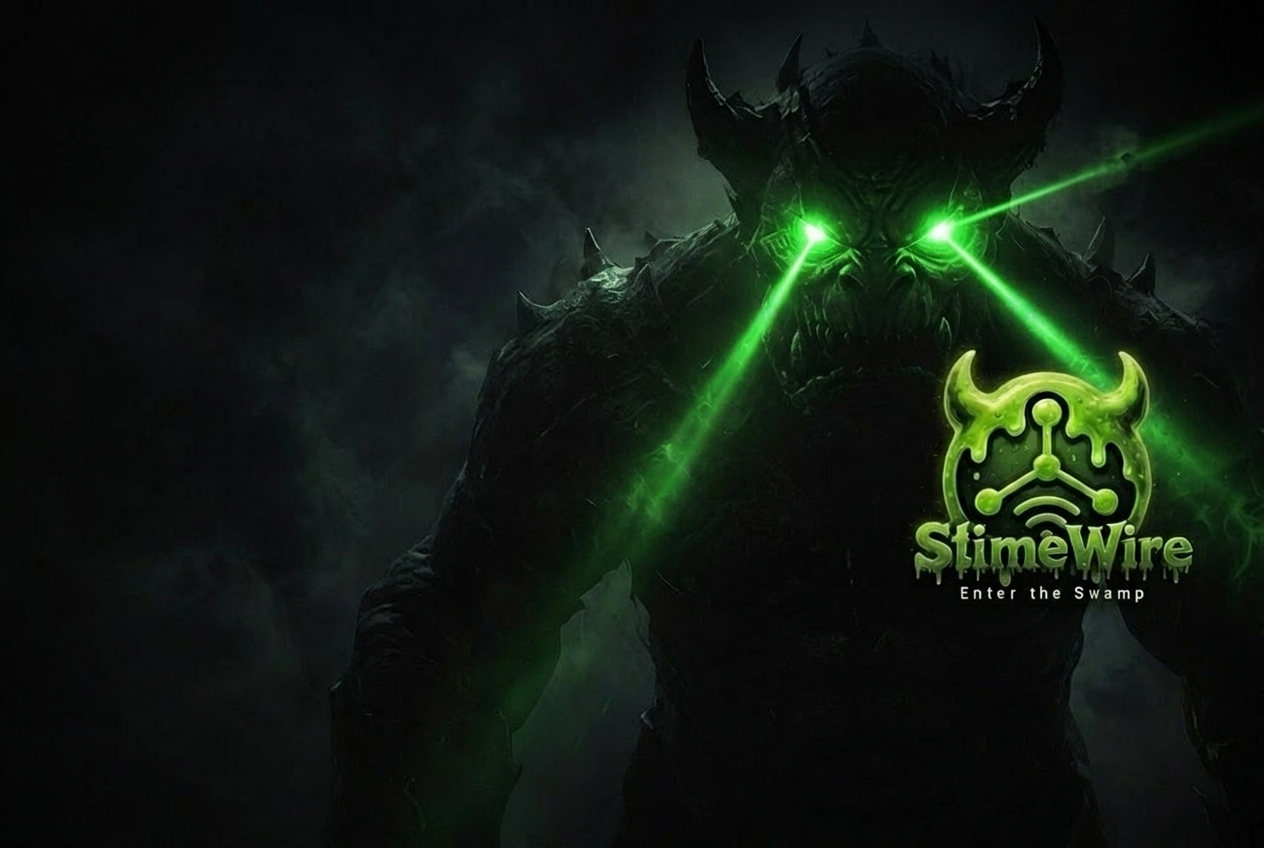
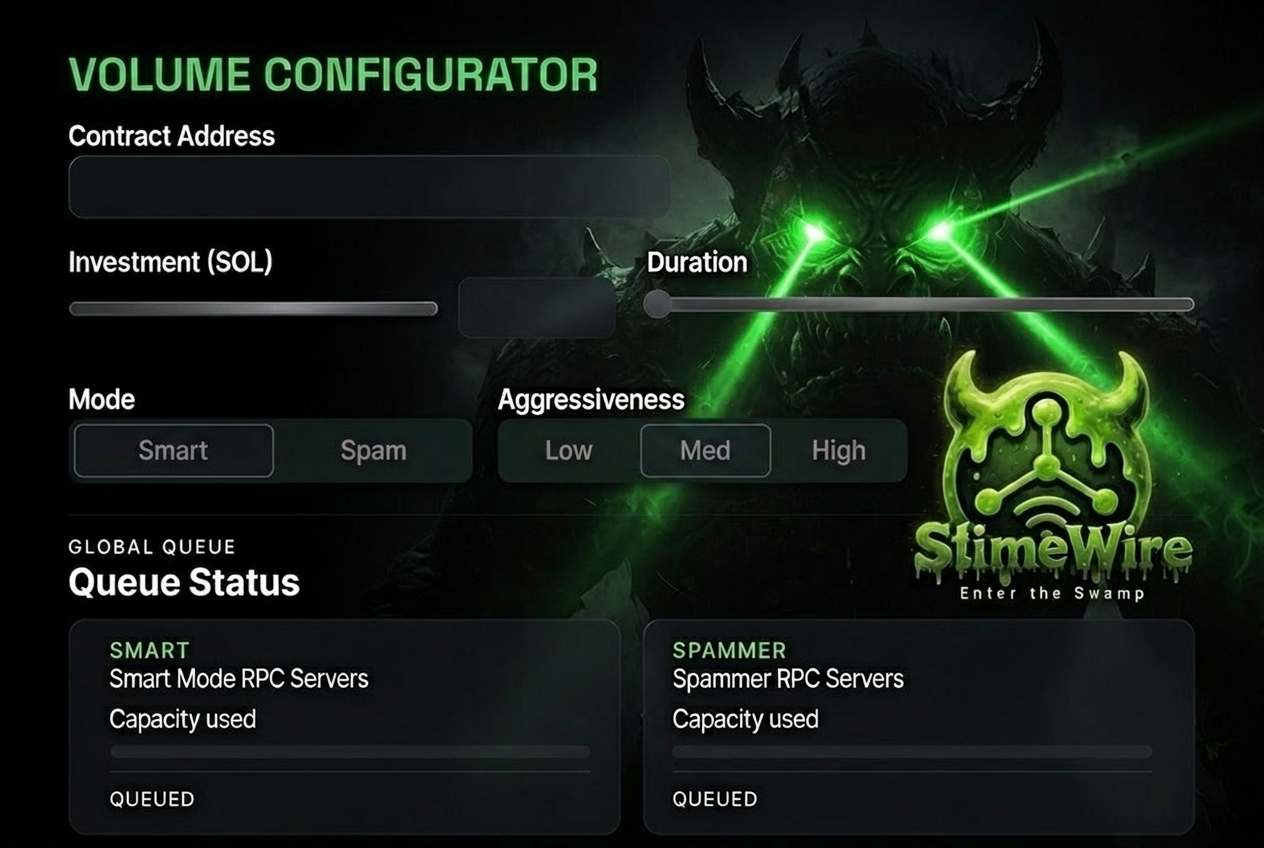
@ Volume: image-skin panel - real controls dropped into the template slots
Generate a full-layout empty Volume template (configurator design + demon,
empty slots) and rebuild the panel as a positioned image-skin: CA, investment
+ duration sliders, and Mode/Aggressiveness segments sit IN the drawn slots
(opaque segments cover the drawn pills; live active state). Stage bottom fades
the drawn queue cards; the real Start/queue/list render below in .ovs-below.
Reuses every existing data-* control so function is preserved.

@

diff --git a/web/public/slimewire-final-overrides.css b/web/public/slimewire-final-overrides.css
@@ -19654,6 +19654,97 @@ html body main.shell[data-app] .ogre-swap-advanced .quick-grid button.primary {
 }
 /* === END OGRESWAP_20260609_V2 ======================================== */
 
+/* === VOLUME_SKIN_20260609_V1 (positioned image-skin) ==================
+   volume-template.png IS the panel face; real controls sit in the drawn
+   slots. Stage is cropped to the config rows (top) so the drawn queue cards
+   aren't shown; the real Start/queue/list live in .ovs-below. */
+html body main.shell[data-app] .slime-configurator.ovs-skin {
+  position: relative;
+  overflow: visible;
+  border: 0 !important;
+  background: #050805 !important;
+  padding: 0 !important;
+}
+html body main.shell[data-app] .ovs-stage {
+  position: relative;
+  width: 100%;
+  max-width: 900px;
+  margin: 0 auto;
+  aspect-ratio: 1264 / 848;
+  container-type: inline-size;
+  background: #050805 url("/assets/slimewire/tool-bg/volume-template.png") center / 100% 100% no-repeat;
+  border-radius: 10px;
+  overflow: hidden;
+}
+html body main.shell[data-app] .ovs-ca {
+  position: absolute; left: 2.5%; top: 13.5%; width: 55%; height: 8%;
+  background: transparent !important; border: 0 !important; outline: none !important; box-shadow: none !important;
+  color: #eafff0 !important; font-size: clamp(11px, 2.4cqw, 16px) !important; font-weight: 600 !important;
+  padding: 0 1.5% !important; box-sizing: border-box;
+}
+html body main.shell[data-app] .ovs-invest {
+  position: absolute; left: 2.5%; top: 28%; width: 29%; height: 8%;
+  display: flex; align-items: center; gap: 6px;
+}
+html body main.shell[data-app] .ovs-duration {
+  position: absolute; left: 33%; top: 28%; width: 25%; height: 8%;
+  display: flex; align-items: center; gap: 6px;
+}
+html body main.shell[data-app] .ovs-invest input[type="range"],
+html body main.shell[data-app] .ovs-duration input[type="range"] { flex: 1 1 auto; min-width: 0; margin: 0 !important; }
+html body main.shell[data-app] .ovs-invest-num {
+  width: 30%; background: transparent !important; border: 0 !important; outline: none !important;
+  color: #c7f7a4 !important; font-weight: 800 !important; font-size: clamp(11px, 2.4cqw, 16px) !important; text-align: center;
+}
+html body main.shell[data-app] .ovs-dur-label {
+  color: #c7f7a4 !important; font-weight: 700; font-size: clamp(9px, 2cqw, 12px); white-space: nowrap;
+}
+html body main.shell[data-app] .ovs-stage input[type="range"] {
+  -webkit-appearance: none; appearance: none; height: 6px;
+  background: rgba(120, 230, 120, 0.25) !important; border-radius: 999px; outline: none; cursor: pointer; padding: 0 !important;
+}
+html body main.shell[data-app] .ovs-stage input[type="range"]::-webkit-slider-thumb {
+  -webkit-appearance: none; width: 16px; height: 16px; border-radius: 50%;
+  background: #8bff5a; box-shadow: 0 0 10px rgba(120, 255, 60, 0.7); cursor: pointer;
+}
+html body main.shell[data-app] .ovs-stage input[type="range"]::-moz-range-thumb {
+  width: 16px; height: 16px; border: 0; border-radius: 50%; background: #8bff5a; box-shadow: 0 0 10px rgba(120, 255, 60, 0.7);
+}
+html body main.shell[data-app] .ovs-mode { position: absolute; left: 2.5%; top: 46.5%; width: 30%; height: 9.5%; }
+html body main.shell[data-app] .ovs-aggr { position: absolute; left: 32.5%; top: 46.5%; width: 27.5%; height: 9.5%; }
+/* Fade the bottom (the drawn Queue Status cards) into the panel - the real,
+   live queue + list render in .ovs-below right under the stage. */
+html body main.shell[data-app] .ovs-stage::after {
+  content: "";
+  position: absolute;
+  left: 0; right: 0; bottom: 0;
+  height: 40%;
+  background: linear-gradient(180deg, rgba(5, 8, 5, 0) 0%, rgba(5, 8, 5, 0.86) 62%, #050805 100%);
+  pointer-events: none;
+}
+html body main.shell[data-app] .ovs-stage .vbot-segment {
+  display: flex !important; gap: 2px; width: 100%; height: 100%;
+  background: transparent !important; border: 0 !important; padding: 0 !important; border-radius: 0 !important;
+}
+html body main.shell[data-app] .ovs-stage .vbot-segment button {
+  flex: 1; height: 100%; border: 1px solid rgba(120, 230, 120, 0.2) !important; border-radius: 8px !important;
+  background: rgba(7, 12, 8, 0.92) !important;
+  color: #a7d894 !important; font-weight: 800 !important; font-size: clamp(9px, 2cqw, 13px) !important; cursor: pointer;
+}
+html body main.shell[data-app] .ovs-stage .vbot-segment button[data-active="true"] {
+  color: #06140a !important; background: rgba(130, 255, 80, 0.92) !important;
+  border-color: rgba(150, 255, 80, 0.9) !important;
+  box-shadow: 0 0 10px rgba(120, 255, 60, 0.5);
+}
+html body main.shell[data-app] .ovs-below {
+  display: grid; gap: 12px; padding: 14px 8px 6px; max-width: 900px; margin: 0 auto;
+}
+@media (max-width: 760px) {
+  html body main.shell[data-app] .ovs-stage { aspect-ratio: 1264 / 600; }
+  html body main.shell[data-app] .ovs-ca { font-size: 12px !important; }
+}
+/* === END VOLUME_SKIN_20260609_V1 ===================================== */
+
 /* === PAIRS_CONTROLSTRIP_20260609_V1 ===================================
    Tidy the Cooks/Live Pairs control strip into one clean wrapping row
    (Sort + Refresh + Trade/Bundle/Volume) instead of a cramped cluster. */

diff --git a/web/public/app.js b/web/public/app.js
@@ -8279,46 +8279,26 @@ function volumeBotQueueHtml() {
 
 function volumeBotPanelHtml() {
   return `
-    <section class="trade-card volume-bot-card slime-configurator" data-preserve-focus>
-      <div class="vbot-config-bg" aria-hidden="true"></div>
-      <div class="vbot-config-inner">
-        <h2 class="vbot-config-title">VOLUME CONFIGURATOR</h2>
-
-        <label class="vbot-config-field">
-          <span class="vbot-config-label">Contract Address</span>
-          <input data-vbot-token type="text" placeholder="e.g. H74CYmXgMkYHYuSRsZt6RJb4NYp2u72VW8BS5huApump" value="${escapeHtml(state.volumeToken || state.tradeToken || "")}">
-        </label>
-
+    <section class="trade-card volume-bot-card slime-configurator ovs-skin" data-preserve-focus>
+      <h2 class="vbot-config-title oss-a11y-title">Volume Configurator</h2>
+      <div class="ovs-stage">
+        <input class="ovs-ca" data-vbot-token type="text" placeholder="Paste contract address" value="${escapeHtml(state.volumeToken || state.tradeToken || "")}" aria-label="Contract address">
+        <div class="ovs-invest">
+          <input data-vbot-invest type="range" min="0.1" max="10" step="0.1" value="6" aria-label="Investment in SOL">
+          <input data-vbot-invest-num type="number" min="0.1" max="10" step="0.1" value="6" class="ovs-invest-num" aria-label="Investment in SOL">
+        </div>
+        <div class="ovs-duration">
+          <input data-vbot-duration type="range" min="20" max="360" step="5" value="60" aria-label="Duration">
+          <span class="ovs-dur-label" data-vbot-duration-label>1h</span>
+        </div>
+        <div class="ovs-mode">${slimeBotSegment("mode", state.slimeBotMode, [["smart", "Smart"], ["spam", "Spam"]])}</div>
+        <div class="ovs-aggr">${slimeBotSegment("aggr", state.slimeBotAggr, [["low", "Low"], ["med", "Med"], ["high", "High"]])}</div>
+      </div>
+      <div class="ovs-below">
         <label class="vbot-config-field">
           <span class="vbot-config-label">Pay From (source wallet)</span>
           <select data-vbot-source>${volumeBotSourceOptionsHtml()}</select>
         </label>
-
-        <div class="vbot-config-row">
-          <div class="vbot-config-field vbot-slider-field">
-            <span class="vbot-config-label">Investment (SOL)</span>
-            <div class="vbot-slider-row">
-              <input data-vbot-invest type="range" min="0.1" max="10" step="0.1" value="6">
-              <input data-vbot-invest-num type="number" min="0.1" max="10" step="0.1" value="6" class="vbot-slider-box" aria-label="Investment in SOL">
-            </div>
-          </div>
-          <div class="vbot-config-field vbot-slider-field">
-            <span class="vbot-config-label">Duration</span>
-            <input data-vbot-duration type="range" min="20" max="360" step="5" value="60">
-            <div class="vbot-slider-ticks"><span>Min 20m</span><span data-vbot-duration-label>1h</span><span>Max 6h</span></div>
-          </div>
-        </div>
-
-        <div class="vbot-config-row">
-          <div class="vbot-config-field">
-            <span class="vbot-config-label">Mode</span>
-            ${slimeBotSegment("mode", state.slimeBotMode, [["smart", "Smart"], ["spam", "Spam"]])}
-          </div>
-          <div class="vbot-config-field">
-            <span class="vbot-config-label">Aggressiveness</span>
-            ${slimeBotSegment("aggr", state.slimeBotAggr, [["low", "Low"], ["med", "Med"], ["high", "High"]])}
-          </div>
-        </div>
 
         <div class="vbot-config-row">
           <div class="vbot-config-field">